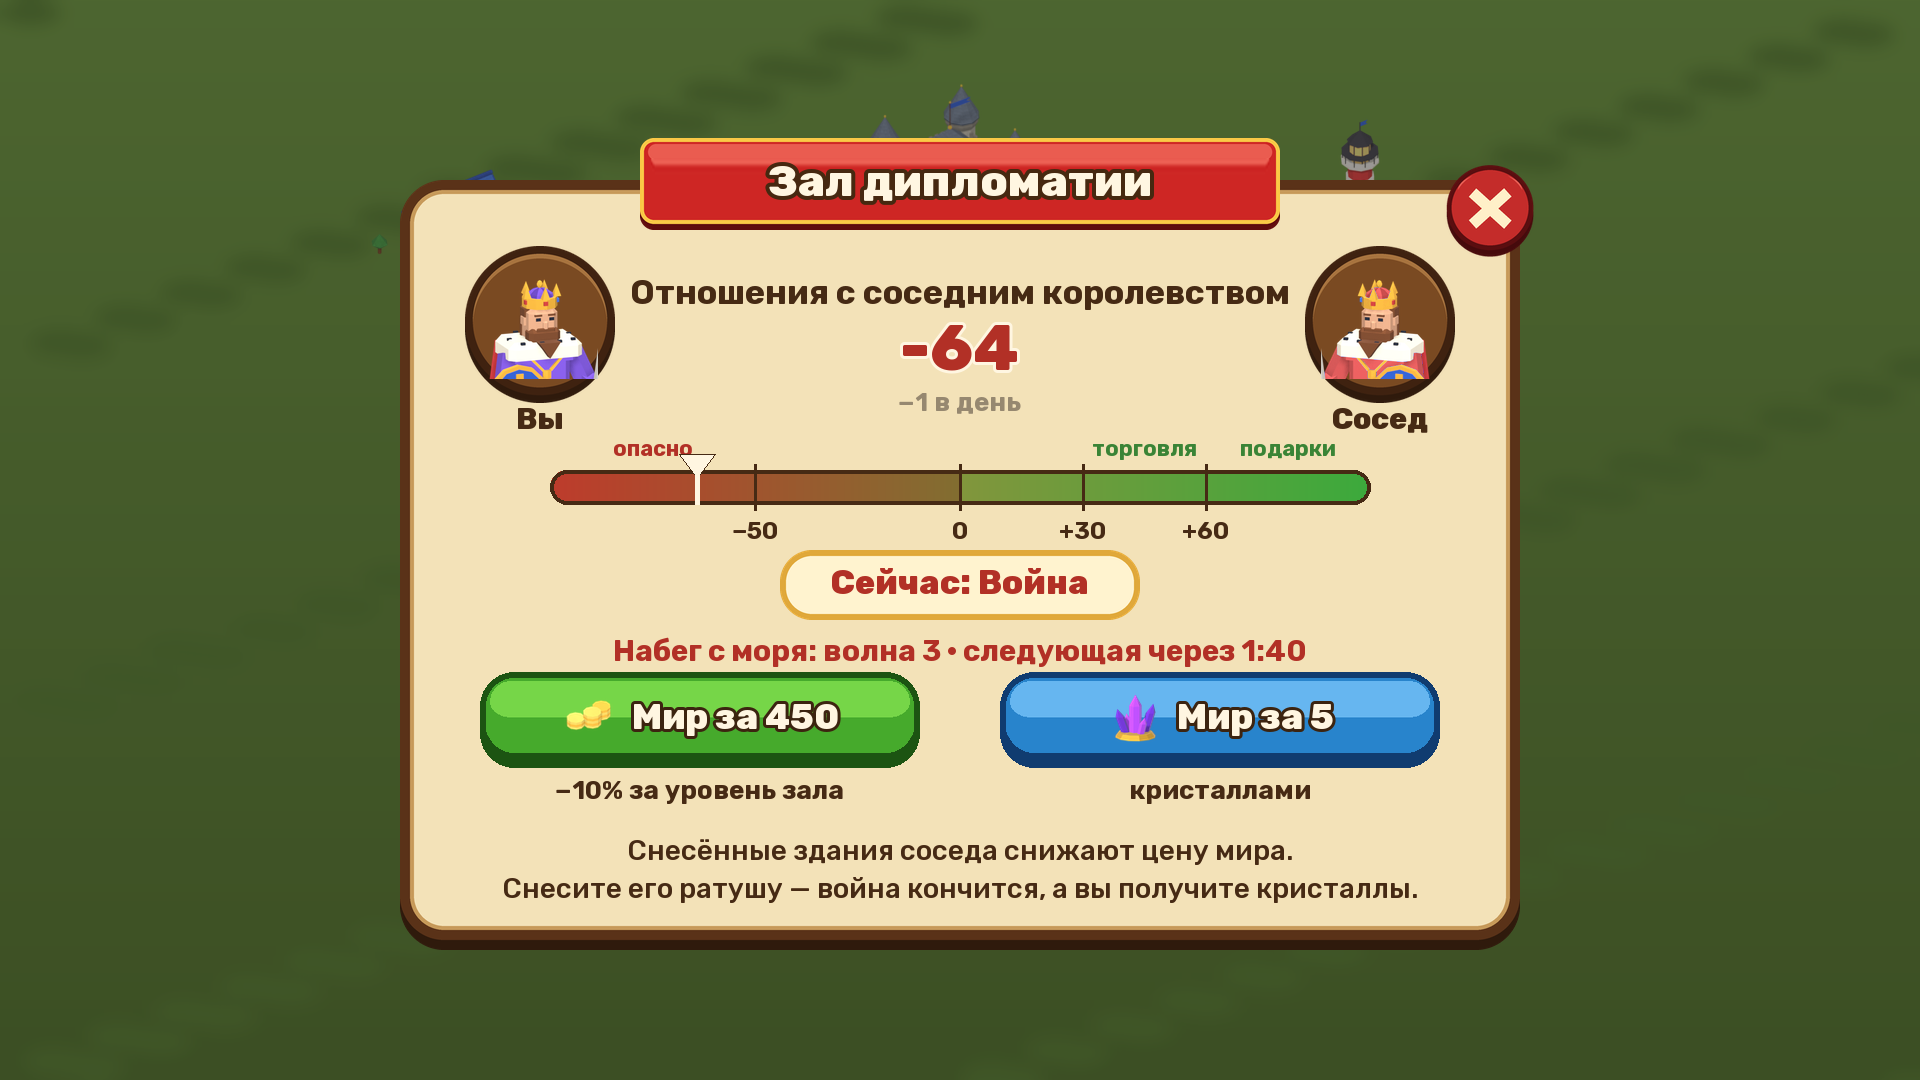
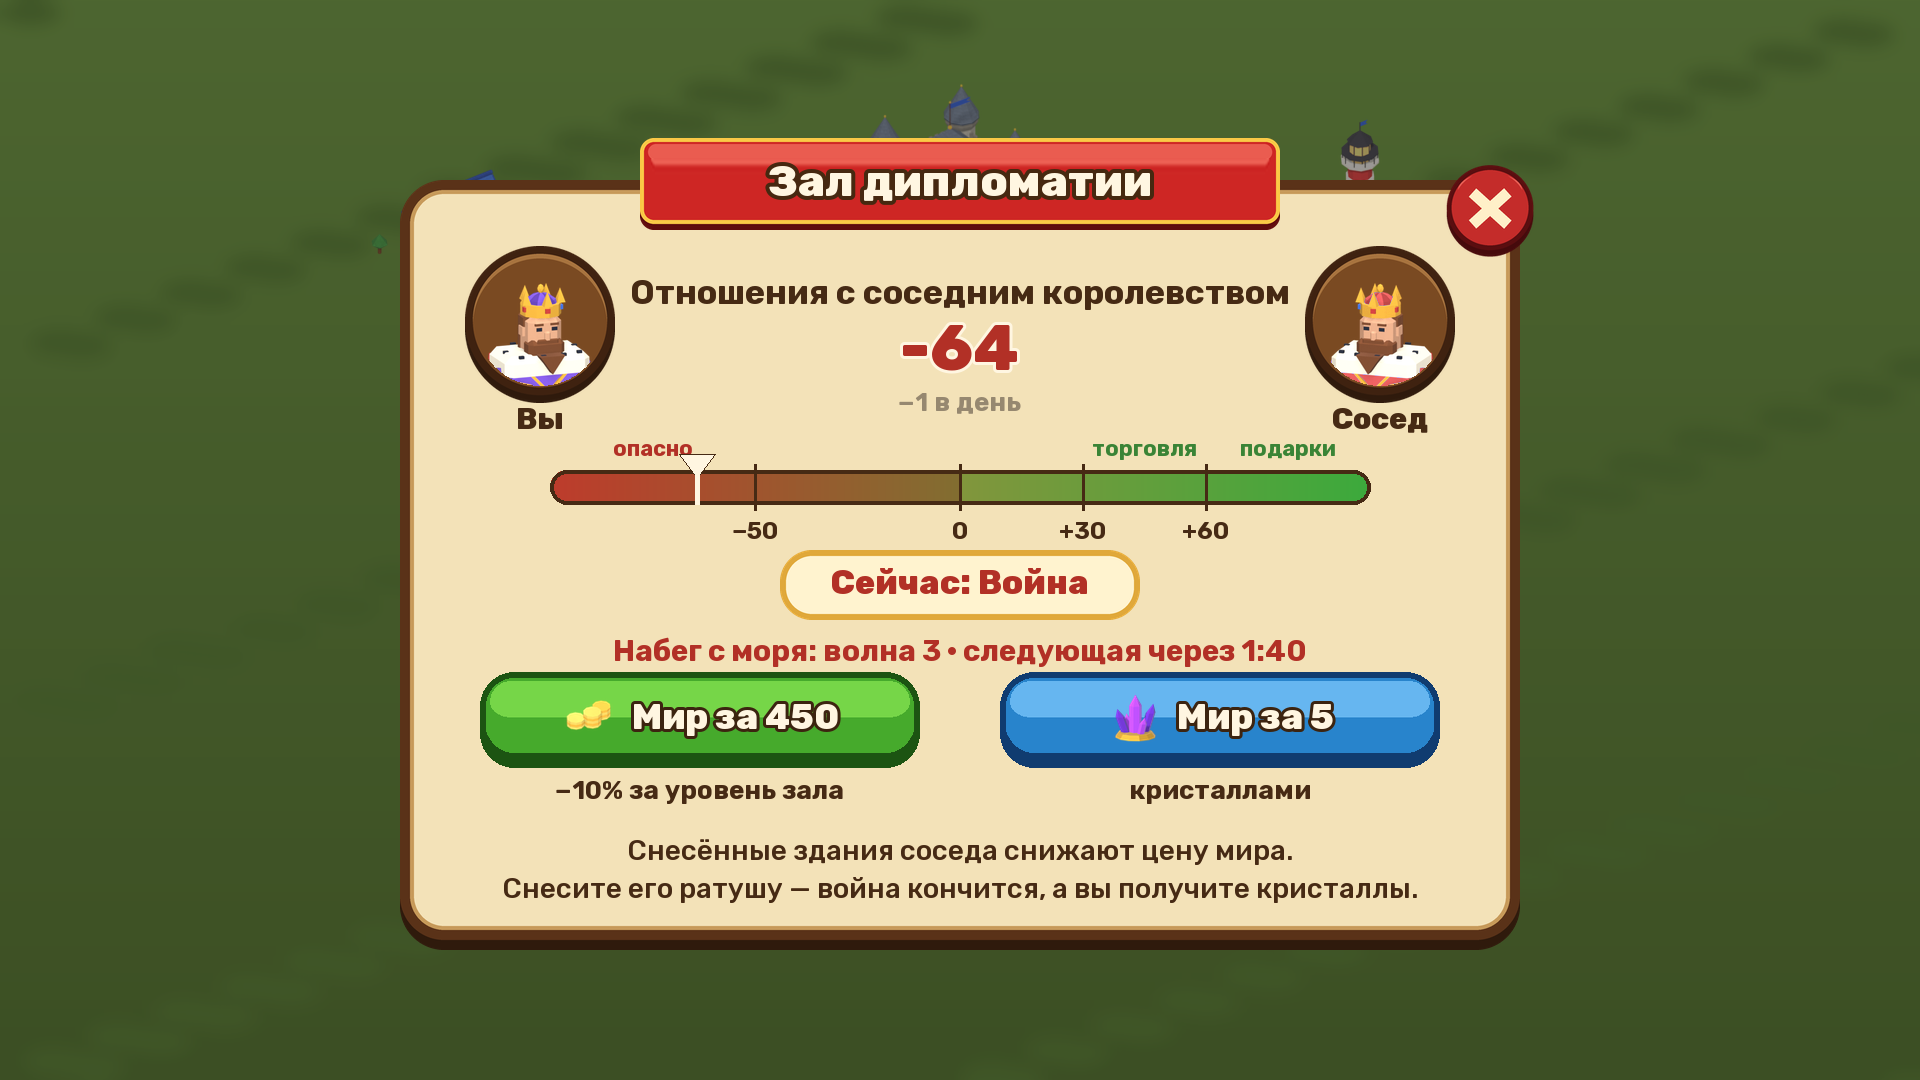
Diplomacy window: king portraits clipped inside their round buttons

Changed region(s): [[0.25, 0.2444, 0.3125, 0.3667], [0.6875, 0.275, 0.75, 0.3667]]

diff --git a/Tools/ui/diplomacy_concepts.py b/Tools/ui/diplomacy_concepts.py
@@ -201,7 +201,7 @@ def scale(c, x0, y, w, value, war=False):
 def king_badge(size, neighbour):
     """A King portrait in the game's round frame; the neighbour's is mirrored (faces ours), cape recoloured red."""
     frame = load(SKIN, "round", (size, int(size * 202 / 192)))
-    k = load(ICONS, "PortraitKing", (int(size * .78), int(size * .78)))
+    k = load(ICONS, "PortraitKing", (int(size * .9), int(size * .9)))
     if neighbour:
         k = k.transpose(Image.FLIP_LEFT_RIGHT)
         r, g, b, a = k.split()
@@ -215,7 +215,16 @@ def king_badge(size, neighbour):
                     hp[x, y] = 0
         r2, g2, b2 = Image.merge("HSV", (h, sat, v)).convert("RGB").split()
         k = Image.merge("RGBA", (r2, g2, b2, a))
-    frame.alpha_composite(k, ((frame.width - k.width) // 2, (frame.height - k.height) // 2 - 4))
+    # the portrait lives INSIDE the button (the user, 2026-11-17): clipped to the face of the button, inside the rim
+    r = int(size * .43)
+    ox, oy = frame.width // 2, int(size * .5)
+    layer = Image.new("RGBA", frame.size)
+    layer.alpha_composite(k, (ox - k.width // 2, oy - k.height // 2 + int(size * .06)))
+    mask = Image.new("L", frame.size)
+    ImageDraw.Draw(mask).ellipse([ox - r, oy - r, ox + r, oy + r], fill=255)
+    a = Image.composite(layer.split()[3], Image.new("L", frame.size), mask)
+    layer.putalpha(a)
+    frame.alpha_composite(layer)
     return frame
 
 

diff --git a/Design/features/bot.md b/Design/features/bot.md
@@ -302,5 +302,5 @@ from `ArchipelagoBotCell`; `TheBotKingdom_StandsOnItsIsland...` now checks each 
 - THE WINDOW (the user, 2026-11-17): keep the ROUND-1 layout (`main_window` in Tools/ui/diplomacy_concepts.py ->
   Design/ui/Diplomacy_1_Window_Peace / _2_Window_War), NOT the big v2 one: title, relations number, scale, «Сейчас: Мир»,
   three buttons. Changes: no «Здание» button (the two help lines sit where it was, panel shorter); instead of the hall
-  icon and the crest -- TWO KINGS facing each other in round frames, «Вы» left, «Сосед» right (the neighbour's portrait
+  icon and the crest -- TWO KINGS facing each other INSIDE round buttons (clipped to the face, not over the rim), «Вы» left, «Сосед» right (the neighbour's portrait
   mirrored, cape red). The game has one King portrait (PortraitKing); the neighbour's needs its own sprite when built.
